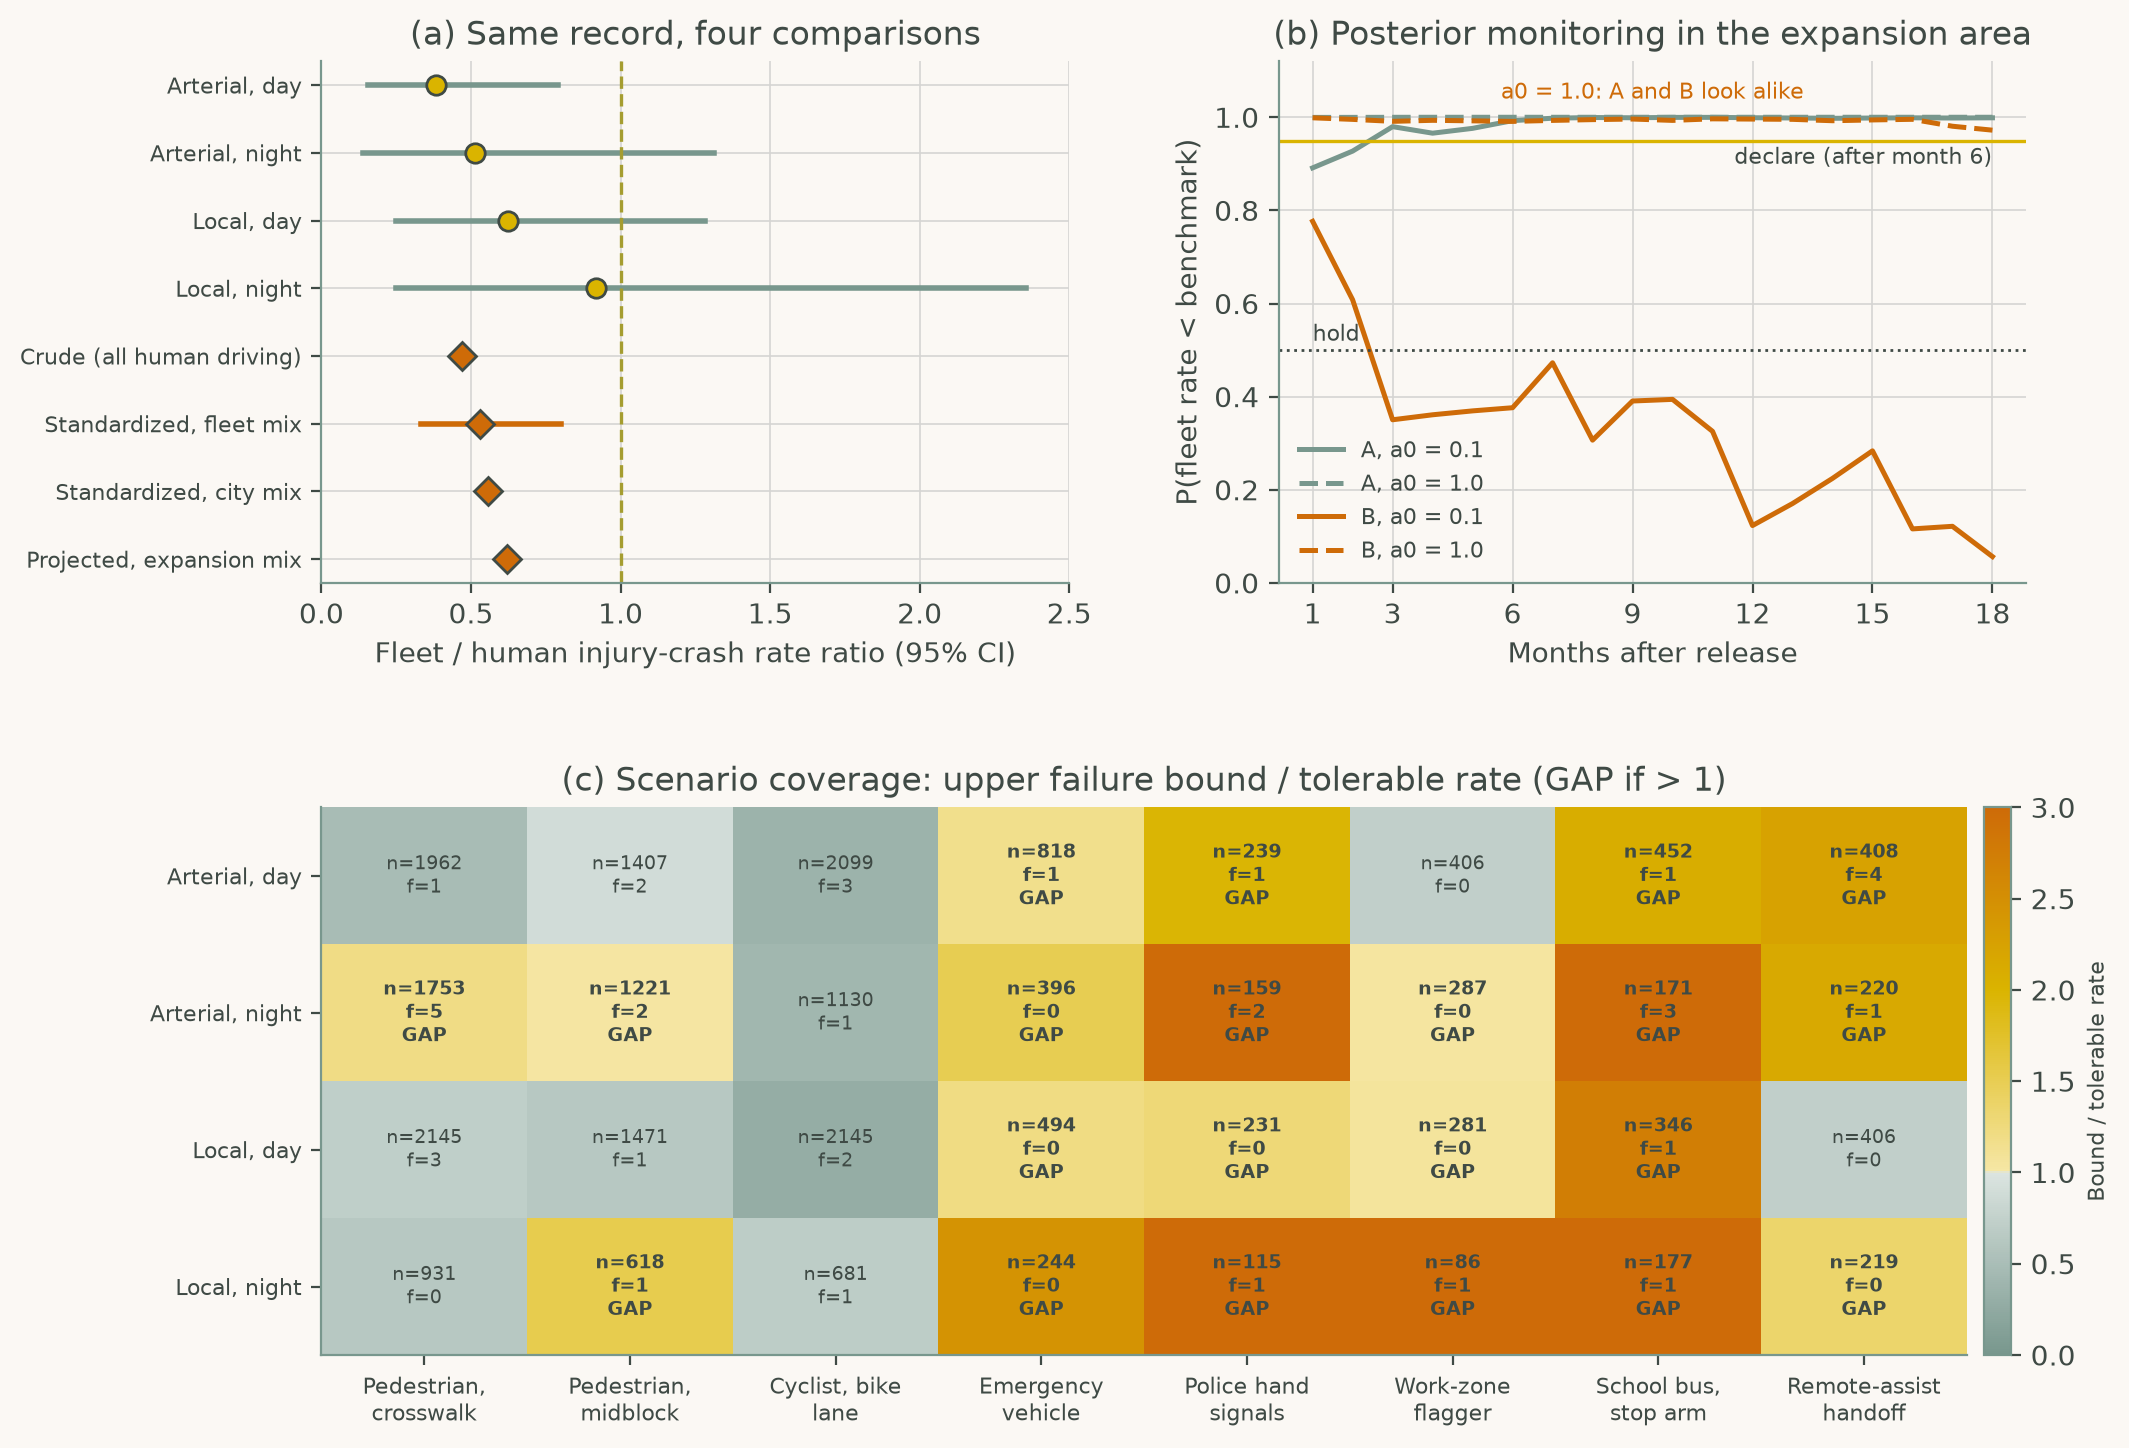
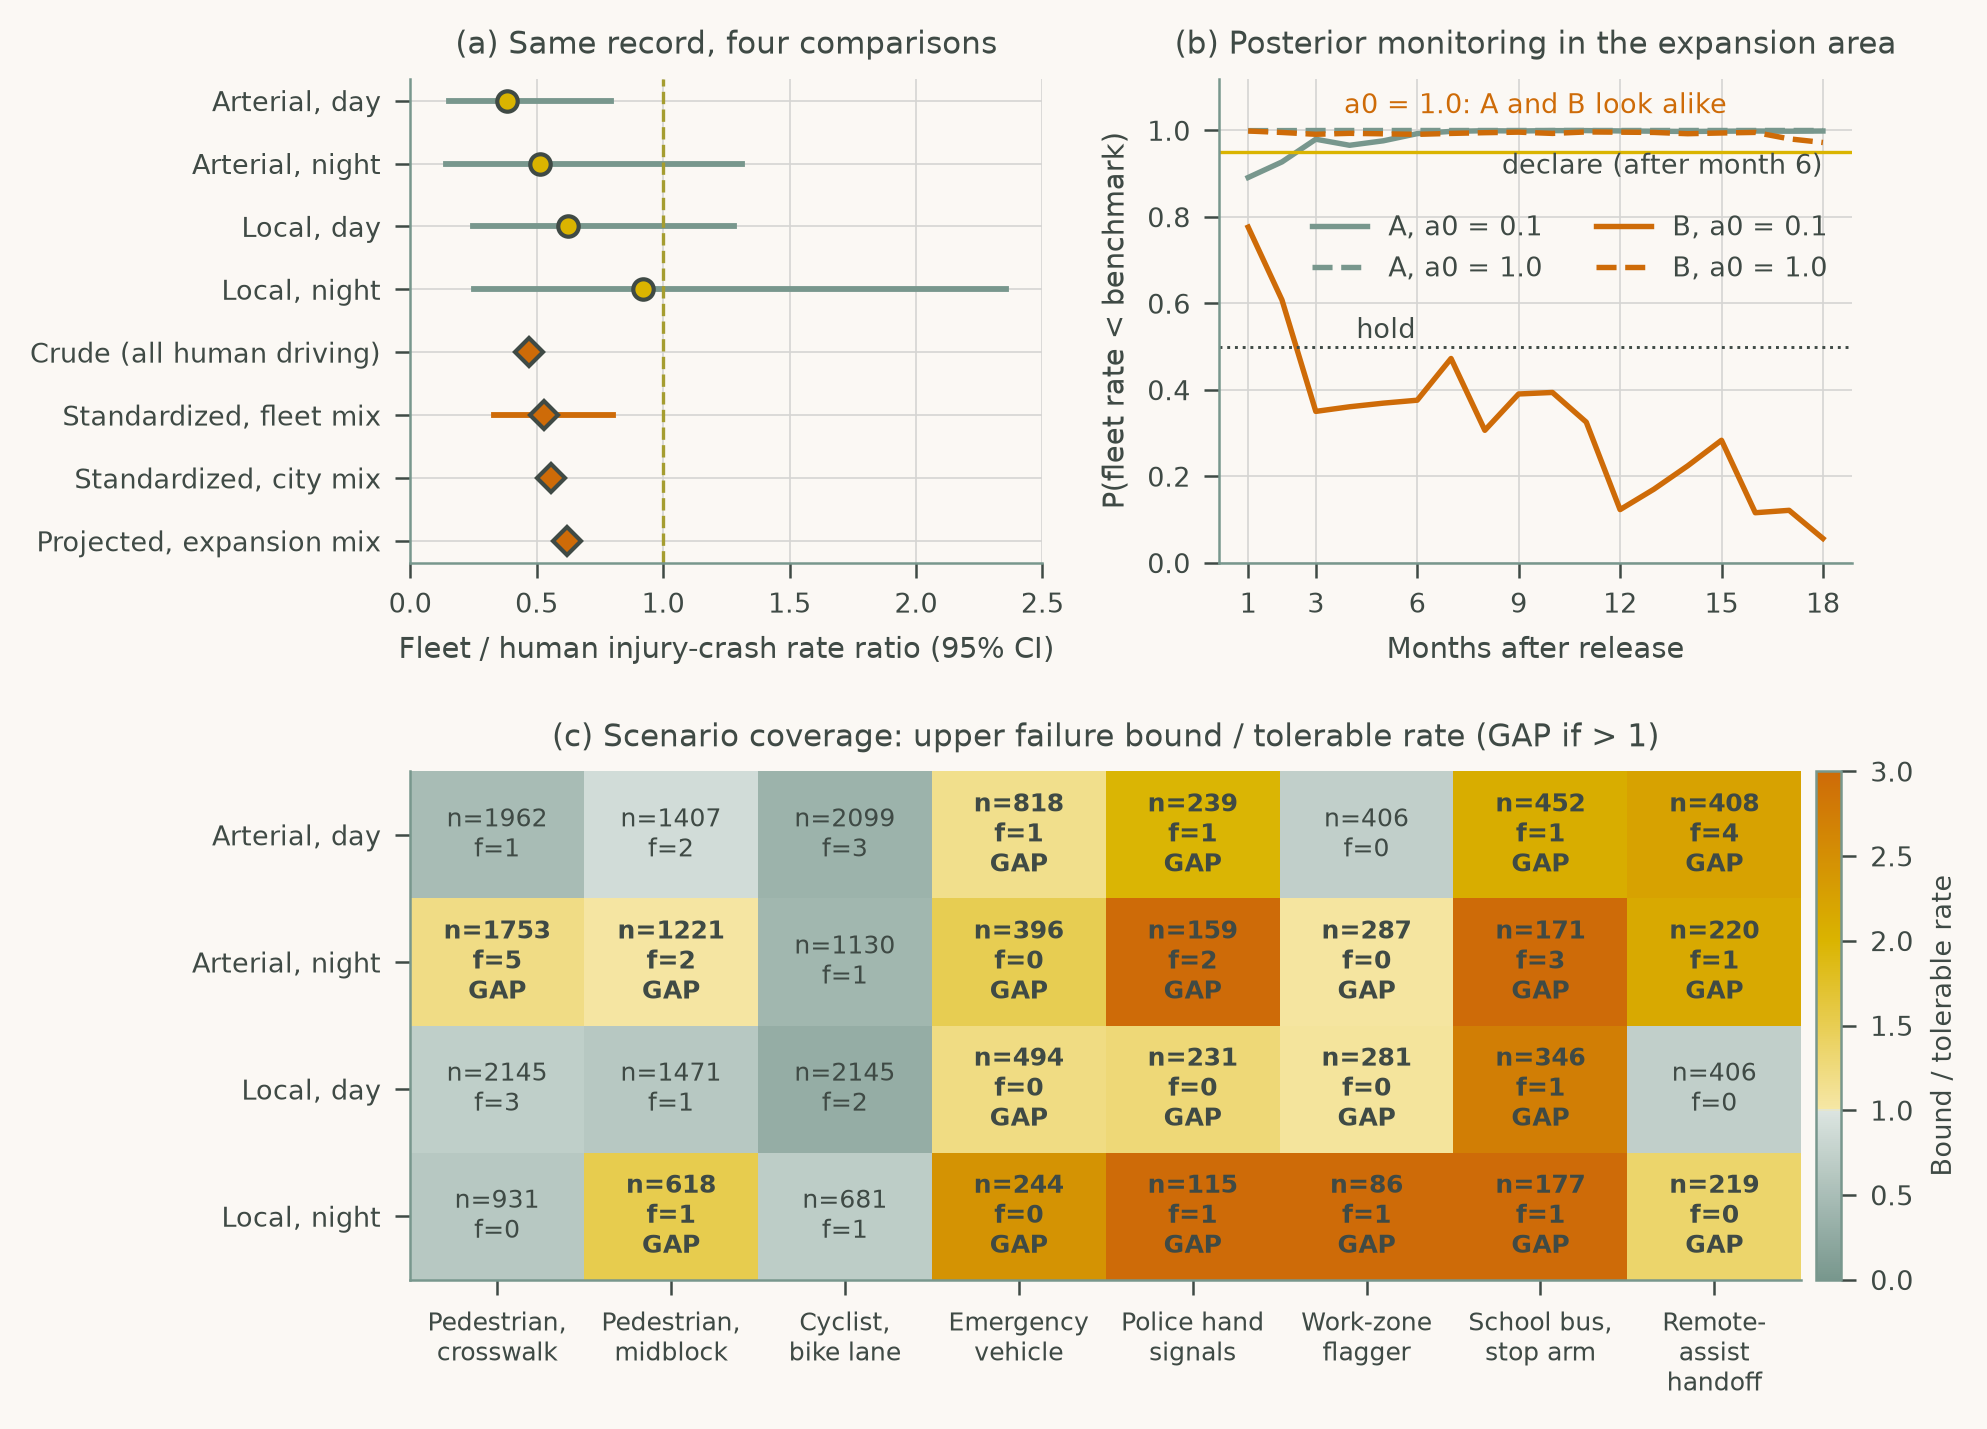
Redraw Chapter 6 figures at print size with readable type

Changed region(s): [[0.0624, 0.4927, 0.9985, 0.9853], [0.5304, 0.0, 0.9673, 0.4619], [0.0, 0.0, 0.5304, 0.4619]]

diff --git a/chapters/ch06_full_autonomy/cs2_safety_assurance.py b/chapters/ch06_full_autonomy/cs2_safety_assurance.py
@@ -163,8 +163,12 @@ plt.rcParams.update({
     "xtick.color": INK, "ytick.color": INK,
     "figure.facecolor": PAPER, "axes.facecolor": PAPER,
     "axes.spines.top": False, "axes.spines.right": False,
-    "axes.grid": True, "grid.color": GRID, "grid.linewidth": 0.6})
-fig = plt.figure(figsize=(11, 8.4))
+    "axes.grid": True, "grid.color": GRID, "grid.linewidth": 0.4,
+    "font.size": 7, "axes.titlesize": 7.5, "axes.labelsize": 7, "legend.fontsize": 6.5,
+    "xtick.labelsize": 6.5, "ytick.labelsize": 6.5, "axes.linewidth": 0.6,
+    "xtick.major.width": 0.6, "ytick.major.width": 0.6, "lines.linewidth": 1.2,
+    "legend.frameon": False})
+fig = plt.figure(figsize=(6.2, 5.2))
 gs = fig.add_gridspec(2, 2, height_ratios=[1, 1.05], hspace=0.42, wspace=0.28)
 ax1, ax2 = fig.add_subplot(gs[0, 0]), fig.add_subplot(gs[0, 1])
 ax3 = fig.add_subplot(gs[1, :])
@@ -175,29 +179,29 @@ vals = list(od.rr) + [crude, sir, dsr, exp_rr]
 y = np.arange(len(labels))[::-1]
 for i, (v, yy) in enumerate(zip(vals, y)):                  # (a) forest plot
     if i < 4:
-        ax1.plot([od.rr_lo[i], od.rr_hi[i]], [yy, yy], color=SAGE, lw=2)
-        ax1.plot(v, yy, "o", color=GOLD, mec=INK, ms=7)
+        ax1.plot([od.rr_lo[i], od.rr_hi[i]], [yy, yy], color=SAGE, lw=1.4)
+        ax1.plot(v, yy, "o", color=GOLD, mec=INK, ms=4.9)
     else:
         if i == 5:
-            ax1.plot([s_lo, s_hi], [yy, yy], color=RUST, lw=2)
-        ax1.plot(v, yy, "D", color=RUST, mec=INK, ms=7)
-ax1.axvline(1, color=OLIVE, ls="--", lw=1.2)
-ax1.set_yticks(y, labels, fontsize=8)
+            ax1.plot([s_lo, s_hi], [yy, yy], color=RUST, lw=1.4)
+        ax1.plot(v, yy, "D", color=RUST, mec=INK, ms=4.9)
+ax1.axvline(1, color=OLIVE, ls="--", lw=0.8)
+ax1.set_yticks(y, labels, fontsize=6.5)
 ax1.set(xlabel="Fleet / human injury-crash rate ratio (95% CI)", xlim=(0, 2.5),
         title="(a) Same record, four comparisons")
 
 for (label, a0), P in paths.items():                        # (b) monitoring paths
-    ax2.plot(np.arange(1, MONTHS + 1), P, "-" if a0 < 1 else "--", lw=1.8,
+    ax2.plot(np.arange(1, MONTHS + 1), P, "-" if a0 < 1 else "--", lw=1.3,
              color=SAGE if label.startswith("A") else RUST,
              label=f"{label.split(':')[0]}, a0 = {a0:.1f}")
-ax2.axhline(DEMO, color=GOLD, lw=1.2); ax2.axhline(1 - HOLD, color=INK, lw=1, ls=":")
-ax2.text(18, DEMO - 0.05, "declare (after month 6)", fontsize=8, color=INK, ha="right")
-ax2.text(1, 1 - HOLD + 0.02, "hold", fontsize=8, color=INK)
-ax2.text(9.5, 1.04, "a0 = 1.0: A and B look alike", fontsize=8, color=RUST, ha="center")
+ax2.axhline(DEMO, color=GOLD, lw=0.8); ax2.axhline(1 - HOLD, color=INK, lw=0.7, ls=":")
+ax2.text(18, DEMO - 0.05, "declare (after month 6)", fontsize=6.5, color=INK, ha="right")
+ax2.text(4.2, 1 - HOLD + 0.02, "hold", fontsize=6.5, color=INK)
+ax2.text(9.5, 1.04, "a0 = 1.0: A and B look alike", fontsize=6.5, color=RUST, ha="center")
 ax2.set(xlabel="Months after release", ylabel="P(fleet rate < benchmark)", ylim=(0, 1.12),
         xticks=[1, 3, 6, 9, 12, 15, 18],
         title="(b) Posterior monitoring in the expansion area")
-ax2.legend(fontsize=8, frameon=False, loc="lower left")
+ax2.legend(fontsize=6.5, loc="upper right", bbox_to_anchor=(1, 0.77), ncol=2)
 
 inter, ctx = list(INTER), list(CTX)                         # (c) coverage heatmap
 ratio = np.array([[cv[(cv.inter == i) & (cv.ctx == c)].ub.iloc[0] /
@@ -209,12 +213,12 @@ for r, c in enumerate(ctx):
     for k, i in enumerate(inter):
         s = cv[(cv.inter == i) & (cv.ctx == c)].iloc[0]
         ax3.text(k, r, f"n={s.n}\nf={s.fails}" + ("" if s["pass"] else "\nGAP"),
-                 ha="center", va="center", fontsize=7, color=INK,
+                 ha="center", va="center", fontsize=6, color=INK,
                  fontweight="normal" if s["pass"] else "bold")
-ax3.set_xticks(range(len(inter)), [textwrap.fill(i, 13) for i in inter], fontsize=8)
-ax3.set_yticks(range(len(ctx)), ctx, fontsize=8)
+ax3.set_xticks(range(len(inter)), [textwrap.fill(i, 11) for i in inter], fontsize=6)
+ax3.set_yticks(range(len(ctx)), ctx, fontsize=6.5)
 ax3.grid(False)
 ax3.set_title("(c) Scenario coverage: upper failure bound / tolerable rate (GAP if > 1)")
 cb = fig.colorbar(im, ax=ax3, fraction=0.025, pad=0.01)
-cb.set_label("Bound / tolerable rate", fontsize=8)
-fig.savefig("chap06_fig02_safety_assurance.png", dpi=200, bbox_inches="tight")
+cb.set_label("Bound / tolerable rate", fontsize=6.5)
+fig.savefig("chap06_fig02_safety_assurance.png", dpi=300, bbox_inches="tight")

diff --git a/chapters/ch06_full_autonomy/cs1_ehmi_crossing.py b/chapters/ch06_full_autonomy/cs1_ehmi_crossing.py
@@ -136,26 +136,30 @@ plt.rcParams.update({
     "xtick.color": INK, "ytick.color": INK,
     "figure.facecolor": PAPER, "axes.facecolor": PAPER,
     "axes.spines.top": False, "axes.spines.right": False,
-    "axes.grid": True, "grid.color": GRID, "grid.linewidth": 0.6})
+    "axes.grid": True, "grid.color": GRID, "grid.linewidth": 0.4,
+    "font.size": 7, "axes.titlesize": 7.5, "axes.labelsize": 7, "legend.fontsize": 6.5,
+    "xtick.labelsize": 6.5, "ytick.labelsize": 6.5, "axes.linewidth": 0.6,
+    "xtick.major.width": 0.6, "ytick.major.width": 0.6, "lines.linewidth": 1.2,
+    "legend.frameon": False})
 col = {"K": SAGE, "R": GOLD, "F": RUST}
-fig, ax = plt.subplots(2, 2, figsize=(10.5, 7.2))
+fig, ax = plt.subplots(2, 2, figsize=(6.2, 4.8))
 for g in GROUPS:                                       # (a) learning curve, 5-trial window
     m = yt[yt.group == g].groupby("trial").cit.mean().rolling(5, center=True,
                                                               min_periods=3).mean()
-    ax[0, 0].plot(m.index, m.values, color=col[g], lw=2, label=GROUPS[g])
+    ax[0, 0].plot(m.index, m.values, color=col[g], lw=1.5, label=GROUPS[g])
 for g in ["R", "F"]:                                   # (b) trust ratings after each trial
     m = df[df.group == g].groupby("trial").trust.mean()
-    ax[0, 1].plot(m.index, m.values, "o-", ms=3, color=col[g], lw=1.4, label=GROUPS[g])
+    ax[0, 1].plot(m.index, m.values, "o-", ms=2.5, color=col[g], lw=1, label=GROUPS[g])
 for a in ax[0]:
     for f in FAULTS:
-        a.axvline(f, color=RUST, ls=":", lw=1.2)
-ax[0, 0].set(xlabel="Trial", ylabel="Crossing initiation time (s)", ylim=(0.6, 2.1),
+        a.axvline(f, color=RUST, ls=":", lw=0.9)
+ax[0, 0].set(xlabel="Trial", ylabel="Crossing initiation time (s)", ylim=(0.4, 2.1),
              title="(a) Yielding trials: time to start crossing")
 ax[0, 1].set(xlabel="Trial", ylabel="Mean trust rating (1-7)", ylim=(1, 7),
              title="(b) Self-reported trust in the eHMI")
-ax[0, 0].legend(fontsize=8, frameon=False, loc="lower left")
-ax[0, 1].legend(fontsize=8, frameon=False, loc="lower right")
-ax[0, 1].text(FAULTS[0] + 0.5, 6.6, "faults", color=RUST, fontsize=8)
+ax[0, 0].legend(fontsize=6.5, loc="lower left")
+ax[0, 1].legend(fontsize=6.5, loc="lower left")
+ax[0, 1].text(FAULTS[0] + 0.5, 6.6, "faults", color=RUST, fontsize=6.5)
 xs = np.arange(3)                                      # (c) false starts by trial type
 for j, pos in enumerate(["other", "fault"]):
     vals, errs = [], []
@@ -168,19 +172,19 @@ for j, pos in enumerate(["other", "fault"]):
                  color=[SKY, RUST][j], label=["other non-yielding trials",
                                               "fault positions (trials 24, 33)"][j])
 ax[1, 0].set_xticks(xs, [GROUPS[g].replace(" with ", "\nwith ") for g in GROUPS],
-                    fontsize=8)
+                    fontsize=6.5)
 ax[1, 0].set(ylabel="Share of trials with a false start", ylim=(0, 0.85),
              title="(c) Starting to cross before a non-yielding vehicle")
-ax[1, 0].legend(fontsize=8, frameon=False, loc="upper left")
+ax[1, 0].legend(fontsize=6.5, loc="upper left")
 # (d) ROC space, isosensitivity curves
 fgrid = np.linspace(0.001, 0.999, 300)
 for g in GROUPS:
     d, c = summary.loc[g, ("dprime", "mean")], summary.loc[g, ("c", "mean")]
-    ax[1, 1].plot(fgrid, norm.cdf(d + norm.ppf(fgrid)), color=col[g], lw=1.2, alpha=0.8)
-    ax[1, 1].plot(norm.cdf(-d / 2 - c), norm.cdf(d / 2 - c), "o", ms=8, color=col[g],
+    ax[1, 1].plot(fgrid, norm.cdf(d + norm.ppf(fgrid)), color=col[g], lw=0.9, alpha=0.8)
+    ax[1, 1].plot(norm.cdf(-d / 2 - c), norm.cdf(d / 2 - c), "o", ms=5.9, color=col[g],
                   mec=INK, label=f"{GROUPS[g]} (d' = {d:.2f}, c = {c:+.2f})")
-ax[1, 1].plot([0, 1], [0, 1], "--", color=OLIVE, lw=1)
+ax[1, 1].plot([0, 1], [0, 1], "--", color=OLIVE, lw=0.7)
 ax[1, 1].set(xlim=(0, 0.5), ylim=(0.5, 1.0), xlabel="False-alarm rate F",
              ylabel="Hit rate H", title="(d) Discrimination of yielding intent")
-ax[1, 1].legend(fontsize=8, frameon=False, loc="lower right")
-fig.tight_layout(); fig.savefig("chap06_fig01_ehmi_crossing.png", dpi=200)
+ax[1, 1].legend(fontsize=6.5, loc="lower right")
+fig.tight_layout(); fig.savefig("chap06_fig01_ehmi_crossing.png", dpi=300)
